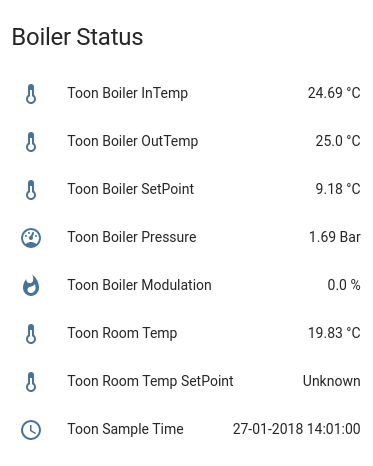
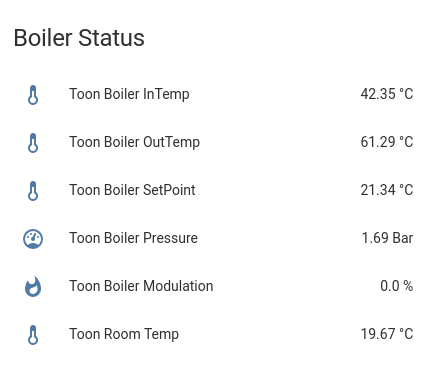
Removed sampletime as boilerstatus sensor, and added it as attribute to the others.

diff --git a/sensor/toon_boilerstatus.py b/sensor/toon_boilerstatus.py
@@ -10,7 +10,6 @@ sensor:
     port: 10080
     scan_interval: 10
     resources:
-      - sampletime
       - boilersetpoint
       - boilerintemp
       - boilerouttemp
@@ -39,7 +38,6 @@ MIN_TIME_BETWEEN_UPDATES = timedelta(seconds=10)
 SENSOR_PREFIX = 'Toon '
 
 SENSOR_TYPES = {
-    'sampletime': ['Sample Time', '', 'mdi:clock'],
     'boilersetpoint': ['Boiler SetPoint', '°C', 'mdi:thermometer'],
     'boilerintemp': ['Boiler InTemp', '°C', 'mdi:thermometer'],
     'boilerouttemp': ['Boiler OutTemp', '°C', 'mdi:thermometer'],
@@ -137,16 +135,23 @@ class ToonBoilerStatusSensor(Entity):
         """Return the unit of measurement of this entity, if any."""
         return self._unit
 
+    @property
+    def device_state_attributes(self):
+        """Return the state attributes of this device."""
+        attr = {}
+        if self._last_updated is not None:
+            attr['Last Updated'] = self._last_updated
+        return attr
+
     def update(self):
         """Get the latest data and use it to update our sensor state."""
         self.data.update()
         boilerstatus = self.data.data
 
-        if self.type == 'sampletime':
-            if 'sampleTime' in boilerstatus:
-                self._state = boilerstatus["sampleTime"]
+        if 'sampleTime' in boilerstatus:
+            self._last_updated = boilerstatus["sampleTime"]
 
-        elif self.type == 'boilersetpoint':
+        if self.type == 'boilersetpoint':
             if 'boilerSetpoint' in boilerstatus:
                 self._state = float(boilerstatus["boilerSetpoint"])
 
@@ -173,4 +178,3 @@ class ToonBoilerStatusSensor(Entity):
         elif self.type == 'roomtempsetpoint':
             if 'roomTempSetpoint' in boilerstatus:
                 self._state = float(boilerstatus["roomTempSetpoint"])
-

diff --git a/README.md b/README.md
@@ -152,7 +152,6 @@ sensor:
     port: 10080
     scan_interval: 10
     resources:
-      - sampletime
       - boilersetpoint
       - boilerintemp
       - boilerouttemp
@@ -184,7 +183,6 @@ Boiler Status:
   - sensor.toon_boiler_modulation
   - sensor.toon_room_temp
   - sensor.toon_room_temp_setpoint
-  - sensor.toon_sample_time
 ```
 
 ### Screenshots
